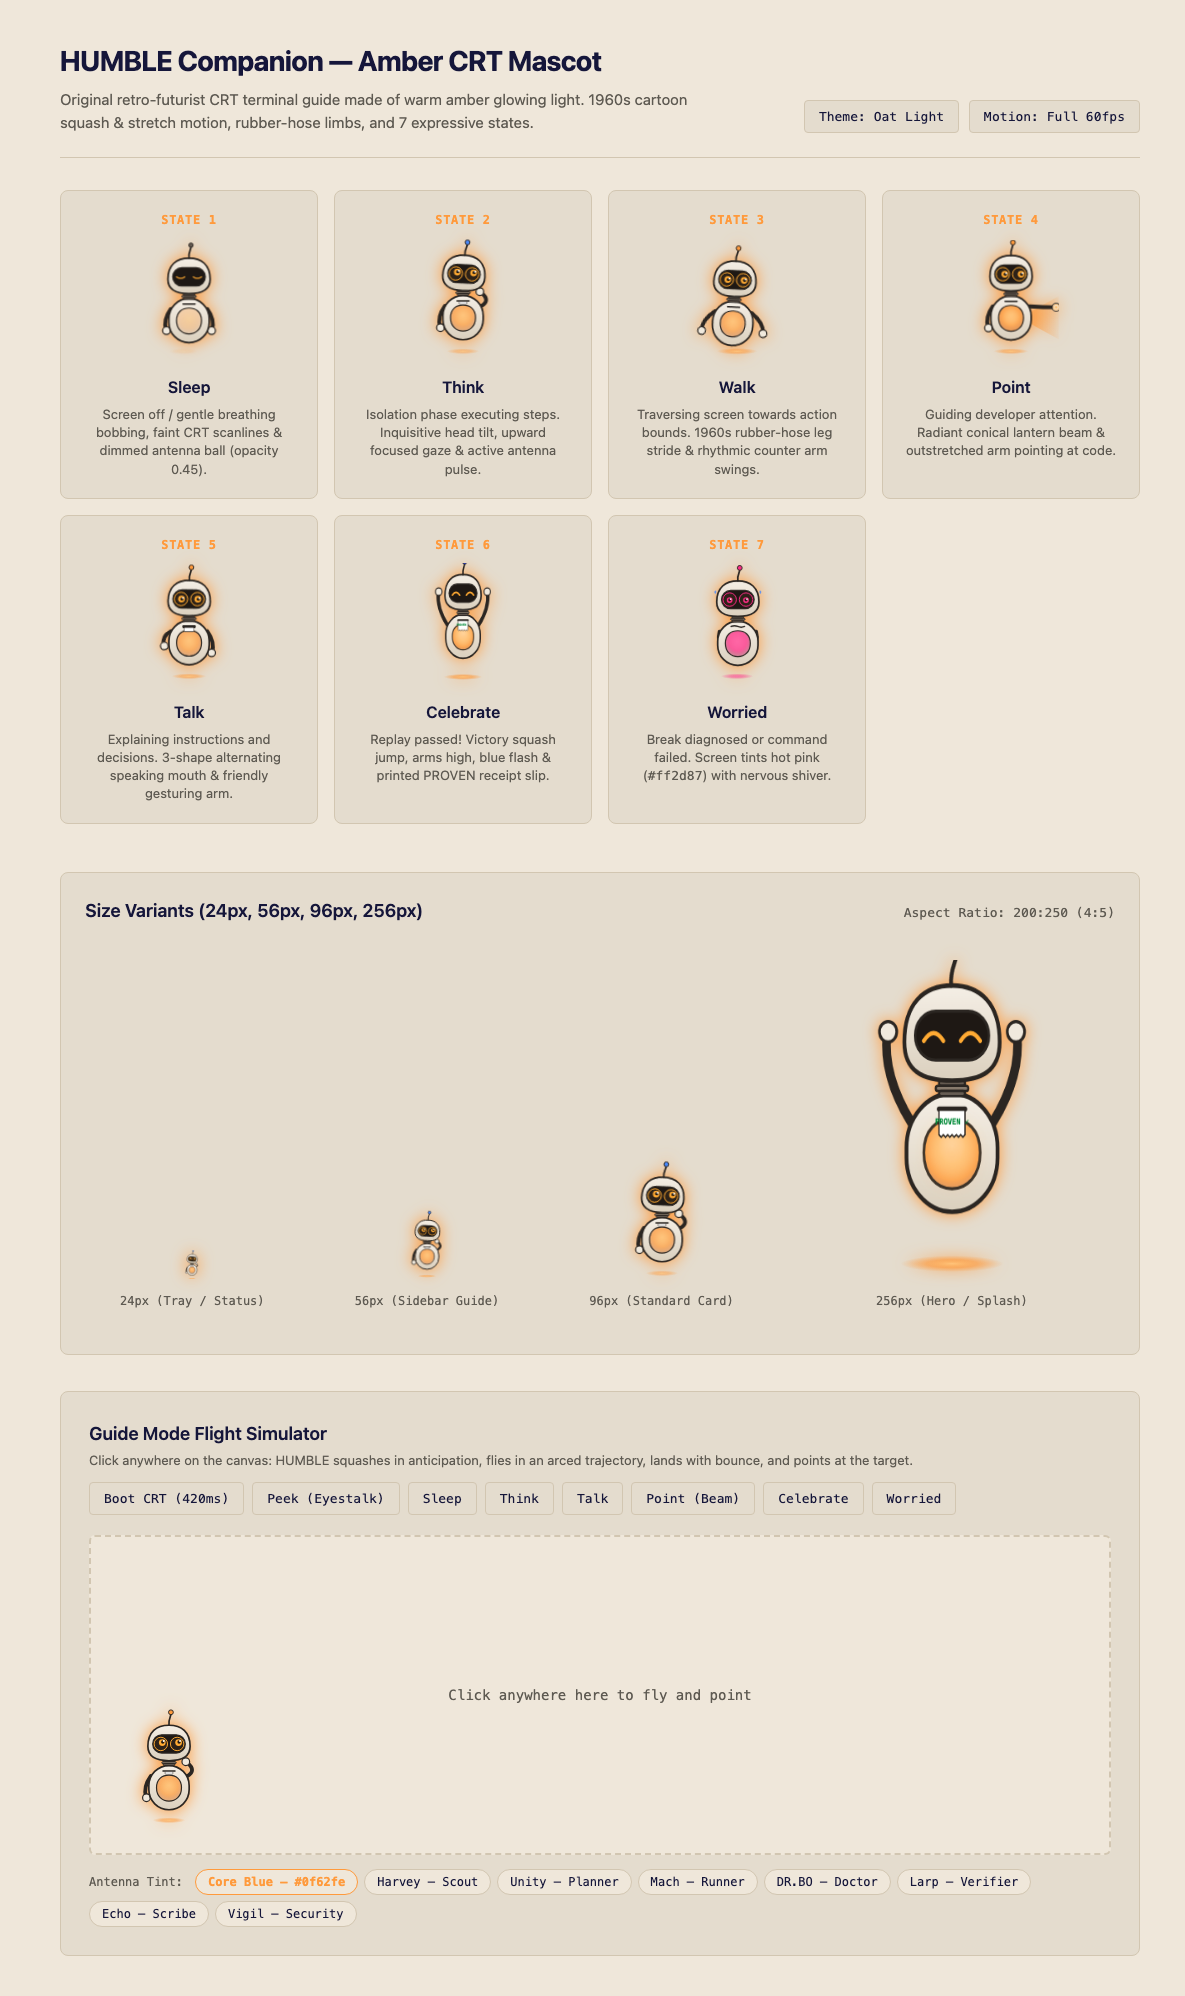
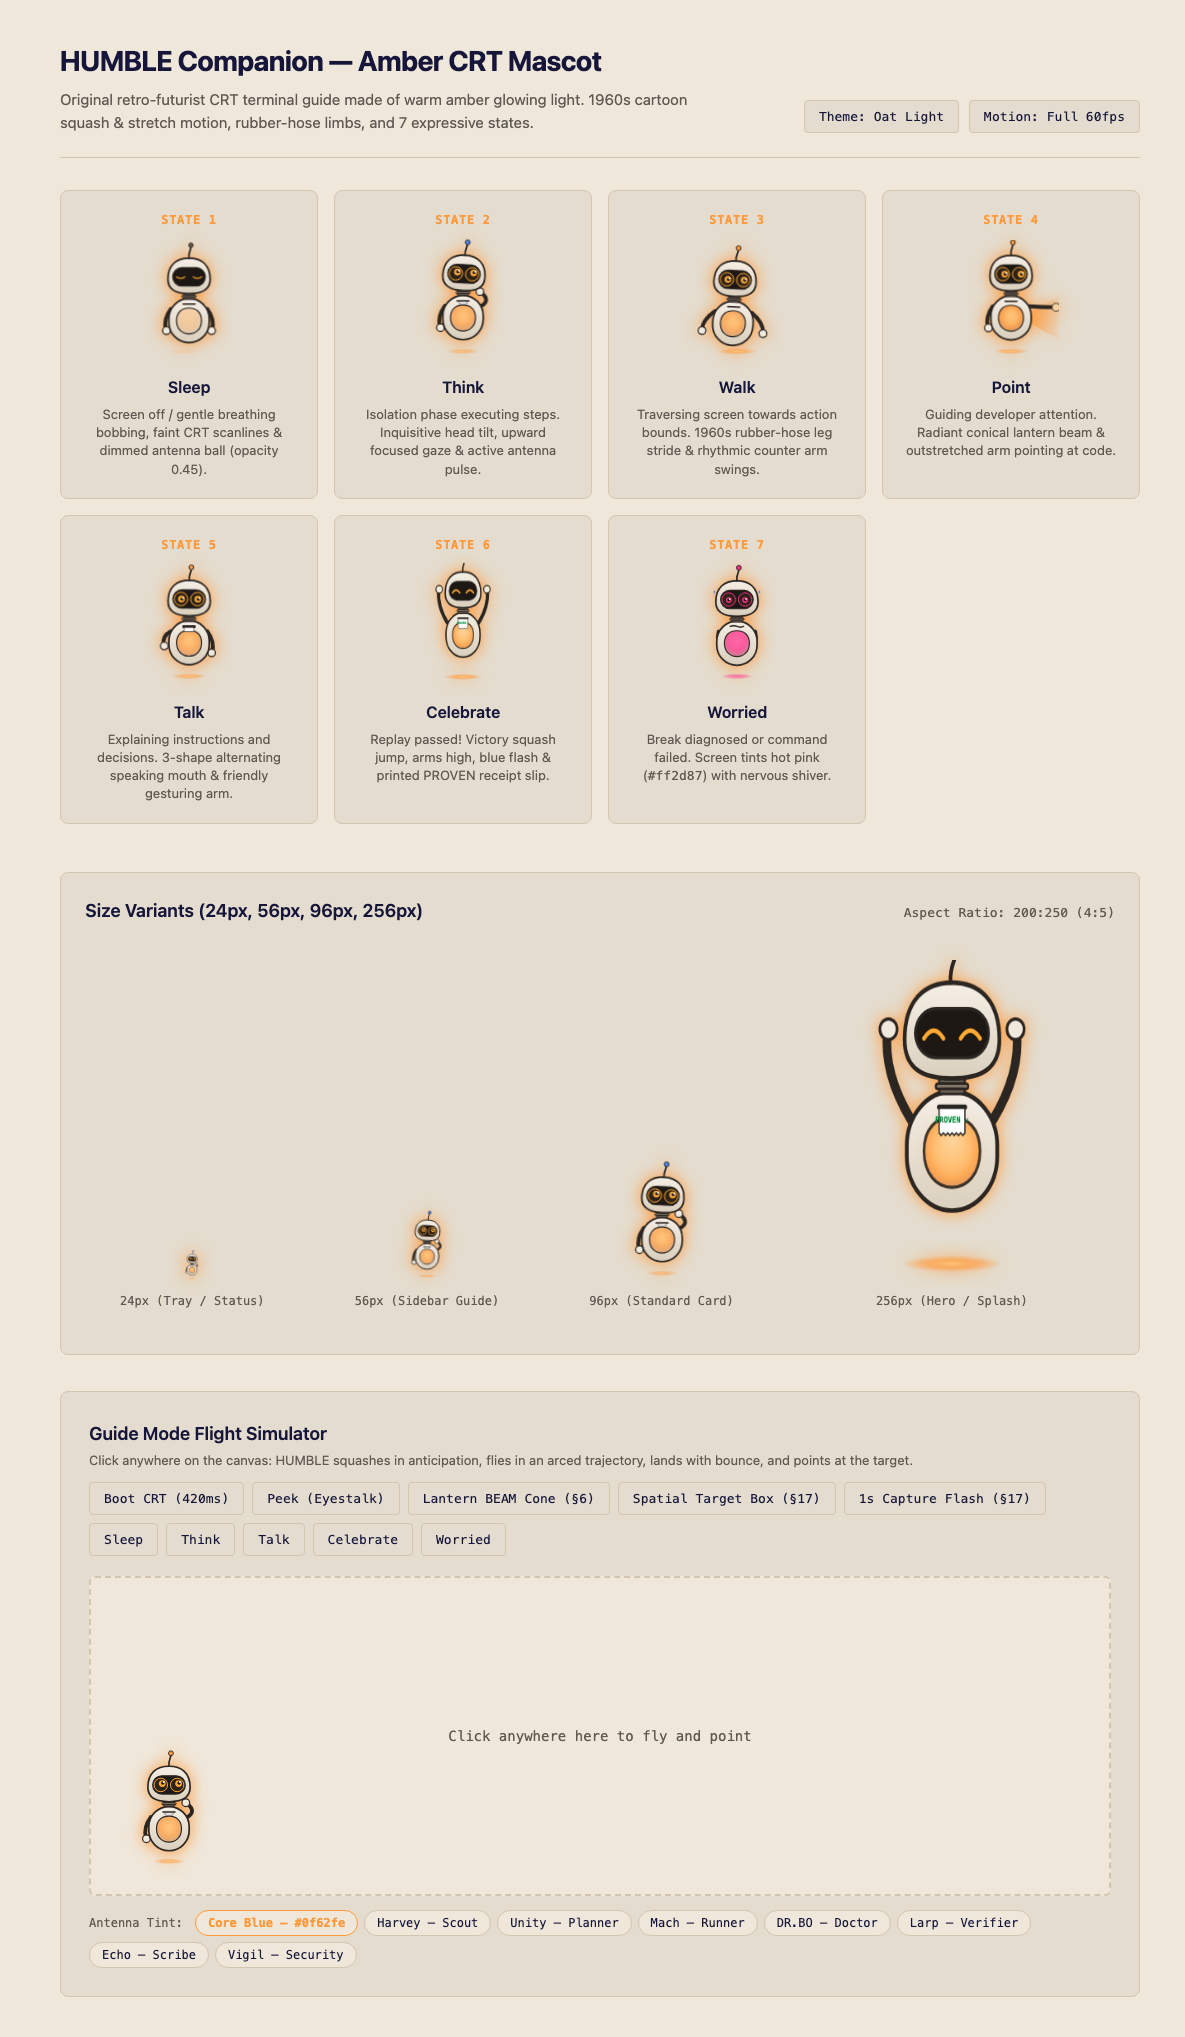
feat(lens): add lantern BEAM cone pointing and Section 17 spatial UI helpers (§6 & §17)

diff --git a/lens/humble/robot.js b/lens/humble/robot.js
@@ -513,6 +513,200 @@ export class HumbleRobot {
     this.setState('sleep');
   }
 
+  /**
+   * Calculate lantern center coordinates in viewport space (§6)
+   * The Lamplighter belly lantern sits at ~50% x, ~65% y of the body.
+   */
+  getLanternPosition() {
+    if (!this.el || typeof this.el.getBoundingClientRect !== 'function') {
+      return { x: this.x + 48, y: this.y + 60 };
+    }
+    const rect = this.el.getBoundingClientRect();
+    return {
+      x: rect.left + rect.width * 0.5,
+      y: rect.top + rect.height * 0.65
+    };
+  }
+
+  /**
+   * Pointing = the lantern BEAM (§6):
+   * A soft cone (linear-gradient, 18% --c-hi to transparent) from the lantern
+   * to the target line, fading in over 180ms on arrival and out with the bubble;
+   * the target line gets a 2px --c-core left bar while lit.
+   *
+   * @param {HTMLElement|{x: number, y: number, width?: number, height?: number}} target
+   */
+  showBeam(target) {
+    if (typeof document === 'undefined') return;
+    this.setState('point');
+    const lantern = this.getLanternPosition();
+
+    let targetBounds = null;
+    if (target && typeof target.getBoundingClientRect === 'function') {
+      const r = target.getBoundingClientRect();
+      targetBounds = { x: r.left, y: r.top, width: r.width, height: r.height };
+      target.classList.add('humble-target-lit');
+      target.setAttribute('data-humble-lit', 'true');
+      this._litElement = target;
+    } else if (target && typeof target.x === 'number') {
+      targetBounds = {
+        x: target.x,
+        y: target.y,
+        width: target.width || 200,
+        height: target.height || 24
+      };
+    } else {
+      targetBounds = { x: lantern.x + 80, y: lantern.y, width: 120, height: 20 };
+    }
+
+    if (!this._beamSvg) {
+      this._beamSvg = document.createElementNS('http://www.w3.org/2000/svg', 'svg');
+      this._beamSvg.setAttribute('class', 'humble-beam-svg');
+      this._beamSvg.setAttribute('aria-hidden', 'true');
+      this._beamSvg.innerHTML = `
+        <defs>
+          <linearGradient id="hb-beam-gradient" x1="0%" y1="0%" x2="100%" y2="0%">
+            <stop offset="0%" stop-color="var(--c-hi, #ffc47a)" stop-opacity="0.28" />
+            <stop offset="70%" stop-color="var(--c-core, #ff9a3c)" stop-opacity="0.08" />
+            <stop offset="100%" stop-color="var(--c-core, #ff9a3c)" stop-opacity="0" />
+          </linearGradient>
+        </defs>
+        <polygon class="humble-beam-cone" />
+      `;
+      document.body.appendChild(this._beamSvg);
+    }
+
+    const poly = this._beamSvg.querySelector('.humble-beam-cone');
+    if (poly) {
+      const pTop = `${targetBounds.x},${targetBounds.y}`;
+      const pBottom = `${targetBounds.x},${targetBounds.y + targetBounds.height}`;
+      poly.setAttribute('points', `${lantern.x},${lantern.y} ${pTop} ${pBottom}`);
+    }
+
+    this._beamSvg.classList.add('visible');
+    this._beamSvg.style.opacity = '1';
+  }
+
+  /**
+   * Hide the lantern BEAM and remove lit highlight from target
+   */
+  hideBeam() {
+    if (this._beamSvg) {
+      this._beamSvg.classList.remove('visible');
+      this._beamSvg.style.opacity = '0';
+    }
+    if (this._litElement) {
+      this._litElement.classList.remove('humble-target-lit');
+      this._litElement.removeAttribute('data-humble-lit');
+      this._litElement = null;
+    }
+  }
+
+  /**
+   * Point at a target line or element with the full Clicky sequence (§6):
+   * 1. Eyestalk peek (280ms out, 200ms back)
+   * 2. Fly to target line
+   * 3. On arrival, show lantern BEAM (180ms fade in) and light target line (2px left bar)
+   * 4. Type speech bubble text
+   * 5. Hold 3s, fade out bubble AND fade out beam together
+   * 6. Return home if options.returnHome is set
+   *
+   * @param {HTMLElement|{x: number, y: number, width?: number, height?: number}} target
+   * @param {Object} [options]
+   * @param {string} [options.say]
+   * @param {number} [options.holdMs=3000]
+   * @param {boolean} [options.returnHome=false]
+   */
+  async pointAt(target, options = {}) {
+    let targetX = this.x;
+    let targetY = this.y;
+
+    if (target && typeof target.getBoundingClientRect === 'function') {
+      const r = target.getBoundingClientRect();
+      targetX = r.left - 60;
+      targetY = r.top - 20;
+    } else if (target && typeof target.x === 'number') {
+      targetX = target.x - 60;
+      targetY = target.y - 20;
+    }
+
+    // Peek eyestalk before flight (§5 signature move: 280ms out, 200ms back)
+    await this.peek();
+
+    // Fly to target
+    await this.flyTo(targetX, targetY, {
+      onArrive: () => {
+        this.showBeam(target);
+      }
+    });
+
+    if (options.say) {
+      await this.say(options.say, options.holdMs || 3000);
+    }
+
+    this.hideBeam();
+
+    if (options.returnHome) {
+      await this.returnHome();
+    }
+  }
+
+  /**
+   * Spatial Context: Show 2px --c-core rounded outline with soft glow (§17)
+   * @param {{x: number, y: number, width: number, height: number}} bounds
+   */
+  showSpatialTarget(bounds) {
+    if (typeof document === 'undefined') return;
+    if (!this._spatialTargetBox) {
+      this._spatialTargetBox = document.createElement('div');
+      this._spatialTargetBox.className = 'humble-spatial-target-box';
+      document.body.appendChild(this._spatialTargetBox);
+    }
+    this._spatialTargetBox.style.left = `${bounds.x || bounds.left || 0}px`;
+    this._spatialTargetBox.style.top = `${bounds.y || bounds.top || 0}px`;
+    this._spatialTargetBox.style.width = `${bounds.width || 100}px`;
+    this._spatialTargetBox.style.height = `${bounds.height || 40}px`;
+    this._spatialTargetBox.classList.add('visible');
+  }
+
+  /**
+   * Spatial Context: Hide spatial target outline (§17)
+   */
+  hideSpatialTarget() {
+    if (this._spatialTargetBox) {
+      this._spatialTargetBox.classList.remove('visible');
+    }
+  }
+
+  /**
+   * Spatial Context: 1s amber capture flash around the captured window (§17)
+   * @param {{x?: number, y?: number, width?: number, height?: number}} bounds
+   */
+  triggerCaptureFlash(bounds = {}) {
+    if (typeof document === 'undefined') return;
+    const flash = document.createElement('div');
+    flash.className = 'humble-spatial-capture-flash';
+    flash.style.left = `${bounds.x || bounds.left || 0}px`;
+    flash.style.top = `${bounds.y || bounds.top || 0}px`;
+    flash.style.width = `${bounds.width || (typeof window !== 'undefined' ? window.innerWidth : 800)}px`;
+    flash.style.height = `${bounds.height || (typeof window !== 'undefined' ? window.innerHeight : 600)}px`;
+    document.body.appendChild(flash);
+    setTimeout(() => flash.remove(), 1000);
+  }
+
+  /**
+   * Spatial Context: create 'looked at: Windows Terminal' chip for console header (§17)
+   * @param {string} windowTitle
+   * @returns {HTMLElement}
+   */
+  createLookedAtChip(windowTitle) {
+    const chip = document.createElement('span');
+    chip.className = 'humble-looked-at-chip';
+    const textNode = document.createTextNode(`👁 looked at: ${windowTitle || 'window'}`);
+    chip.appendChild(textNode);
+    return chip;
+  }
+
   render() {
     this.el.innerHTML = `
       <svg class="humble-robot humble-robot-${this.state} humble-robot-${this.size}" viewBox="${this.state === 'celebrate' ? '0 -25 200 275' : '0 0 200 250'}">

diff --git a/lens/humble/robot.css b/lens/humble/robot.css
@@ -426,12 +426,115 @@
 }
 
 /* ==========================================================================
-   Spec Section 6: Flight Mode
+   Spec Section 6: Flight Mode & Lantern BEAM
    ========================================================================== */
 
 .humble-robot-flying {
   z-index: 99;
   pointer-events: none;
+}
+
+/* The lantern BEAM (§6): a soft cone (linear-gradient, 18% --c-hi to transparent) */
+.humble-beam-svg {
+  position: fixed;
+  top: 0;
+  left: 0;
+  width: 100vw;
+  height: 100vh;
+  pointer-events: none;
+  z-index: 98;
+  overflow: visible;
+  opacity: 0;
+  transition: opacity 180ms var(--hb-ease-out);
+}
+
+.humble-beam-svg.visible {
+  opacity: 1;
+}
+
+.humble-beam-cone {
+  fill: url(#hb-beam-gradient);
+  filter: drop-shadow(0 0 10px rgba(255, 196, 122, 0.4));
+}
+
+.humble-lantern-beam {
+  position: absolute;
+  pointer-events: none;
+  z-index: 98;
+  opacity: 0;
+  transition: opacity 180ms var(--hb-ease-out);
+  background: linear-gradient(to right, rgba(255, 196, 122, 0.18) 0%, rgba(255, 154, 60, 0.04) 60%, transparent 100%);
+  clip-path: polygon(0% 45%, 100% 0%, 100% 100%, 0% 55%);
+}
+
+.humble-lantern-beam.visible {
+  opacity: 1;
+}
+
+/* Target line 2px --c-core left bar while lit (§6) */
+.humble-target-lit,
+[data-humble-lit="true"] {
+  border-left: 2px solid var(--c-core, #ff9a3c) !important;
+  background: color-mix(in srgb, var(--c-core, #ff9a3c) 8%, transparent);
+  transition: border-left 180ms ease, background 180ms ease;
+}
+
+/* ==========================================================================
+   Spec Section 17: Spatial Context UI
+   ========================================================================== */
+
+/* Spatial context target box: 2px --c-core rounded outline with soft glow */
+.humble-spatial-target-box {
+  position: fixed;
+  pointer-events: none;
+  border: 2px solid var(--c-core, #ff9a3c);
+  border-radius: 4px;
+  box-shadow: 0 0 16px rgba(255, 154, 60, 0.5), inset 0 0 8px rgba(255, 196, 122, 0.2);
+  z-index: 97;
+  opacity: 0;
+  transition: opacity 180ms var(--hb-ease-out);
+}
+
+.humble-spatial-target-box.visible {
+  opacity: 1;
+}
+
+/* 1s amber capture flash around the captured window */
+.humble-spatial-capture-flash {
+  position: fixed;
+  pointer-events: none;
+  border: 2px solid var(--c-core, #ff9a3c);
+  box-shadow: 0 0 24px var(--c-core, #ff9a3c), inset 0 0 16px var(--c-hi, #ffc47a);
+  z-index: 9999;
+  animation: humbleCaptureFlash 1000ms cubic-bezier(0.23, 1, 0.32, 1) forwards;
+}
+
+@keyframes humbleCaptureFlash {
+  0% { opacity: 0; transform: scale(0.99); }
+  20% { opacity: 1; transform: scale(1); }
+  70% { opacity: 0.8; }
+  100% { opacity: 0; transform: scale(1); }
+}
+
+/* 'looked at: Windows Terminal' chip in console header */
+.humble-looked-at-chip {
+  display: inline-flex;
+  align-items: center;
+  gap: 6px;
+  background: color-mix(in srgb, var(--c-core, #ff9a3c) 12%, transparent);
+  border: 1px solid var(--c-core, #ff9a3c);
+  color: var(--c-core, #ff9a3c);
+  font-family: ui-monospace, "IBM Plex Mono", monospace;
+  font-size: 11px;
+  font-weight: 500;
+  padding: 2px 8px;
+  border-radius: 4px;
+  animation: humbleChipReveal 250ms var(--hb-ease-out) both;
+}
+
+@keyframes humbleChipReveal {
+  from { opacity: 0; transform: translateY(-4px); }
+  to { opacity: 1; transform: translateY(0); }
 }
 
 /* ==========================================================================

diff --git a/lens/humble/showcase.html b/lens/humble/showcase.html
@@ -324,10 +324,12 @@
       <div style="display: flex; gap: 8px; flex-wrap: wrap;">
         <button class="btn" onclick="sim.boot()">Boot CRT (420ms)</button>
         <button class="btn" onclick="sim.peek()">Peek (Eyestalk)</button>
+        <button class="btn" onclick="testLanternBeam()">Lantern BEAM Cone (§6)</button>
+        <button class="btn" onclick="testSpatialTarget()">Spatial Target Box (§17)</button>
+        <button class="btn" onclick="testCaptureFlash()">1s Capture Flash (§17)</button>
         <button class="btn" onclick="sim.setState('sleep')">Sleep</button>
         <button class="btn" onclick="sim.setState('think')">Think</button>
         <button class="btn" onclick="sim.setState('talk', { say: 'Explaining repo build steps!' })">Talk</button>
-        <button class="btn" onclick="sim.setState('point')">Point (Beam)</button>
         <button class="btn" onclick="sim.setState('celebrate')">Celebrate</button>
         <button class="btn" onclick="sim.setState('worried')">Worried</button>
       </div>
@@ -420,6 +422,28 @@
     document.querySelectorAll('.agent-pill').forEach(p => p.classList.remove('active'));
     btn.classList.add('active');
     sim.setAgent(name);
+  };
+
+  window.testLanternBeam = function() {
+    const hint = document.getElementById('hint');
+    if (hint) {
+      hint.style.display = 'block';
+      hint.textContent = 'this broke here: npm install exit 1';
+      sim.pointAt(hint, { say: 'this broke here' });
+    }
+  };
+
+  window.testSpatialTarget = function() {
+    const hint = document.getElementById('hint');
+    if (hint) {
+      const r = hint.getBoundingClientRect();
+      sim.showSpatialTarget(r);
+      setTimeout(() => sim.hideSpatialTarget(), 3000);
+    }
+  };
+
+  window.testCaptureFlash = function() {
+    sim.triggerCaptureFlash({ x: 20, y: 20, width: window.innerWidth - 40, height: 350 });
   };
 </script>
 </body>

diff --git a/test/humble-robot.test.js b/test/humble-robot.test.js
@@ -111,3 +111,26 @@ test('HUMBLE Robot: flight math matches Section 6 of spec (duration clamp, scale
     assert.deepEqual(midPoint, { x: 50, y: -30 });
   });
 });
+
+test('HUMBLE Robot: lantern BEAM and Section 17 spatial UI methods exist on HumbleRobot prototype', () => {
+  assert.equal(typeof HumbleRobot.prototype.showBeam, 'function');
+  assert.equal(typeof HumbleRobot.prototype.hideBeam, 'function');
+  assert.equal(typeof HumbleRobot.prototype.pointAt, 'function');
+  assert.equal(typeof HumbleRobot.prototype.getLanternPosition, 'function');
+  assert.equal(typeof HumbleRobot.prototype.showSpatialTarget, 'function');
+  assert.equal(typeof HumbleRobot.prototype.hideSpatialTarget, 'function');
+  assert.equal(typeof HumbleRobot.prototype.triggerCaptureFlash, 'function');
+  assert.equal(typeof HumbleRobot.prototype.createLookedAtChip, 'function');
+});
+
+test('HUMBLE Robot: CSS includes lantern BEAM, target lighting, and spatial context rules (§6 & §17)', () => {
+  const css = fs.readFileSync(CSS_FILE, 'utf8');
+  assert.ok(css.includes('.humble-beam-svg'), 'Missing .humble-beam-svg rule');
+  assert.ok(css.includes('.humble-beam-cone'), 'Missing .humble-beam-cone rule');
+  assert.ok(css.includes('.humble-target-lit'), 'Missing .humble-target-lit rule');
+  assert.ok(css.includes('border-left: 2px solid var(--c-core, #ff9a3c) !important'), 'Missing 2px target line left bar');
+  assert.ok(css.includes('.humble-spatial-target-box'), 'Missing .humble-spatial-target-box rule');
+  assert.ok(css.includes('.humble-spatial-capture-flash'), 'Missing .humble-spatial-capture-flash rule');
+  assert.ok(css.includes('.humble-looked-at-chip'), 'Missing .humble-looked-at-chip rule');
+});
+
